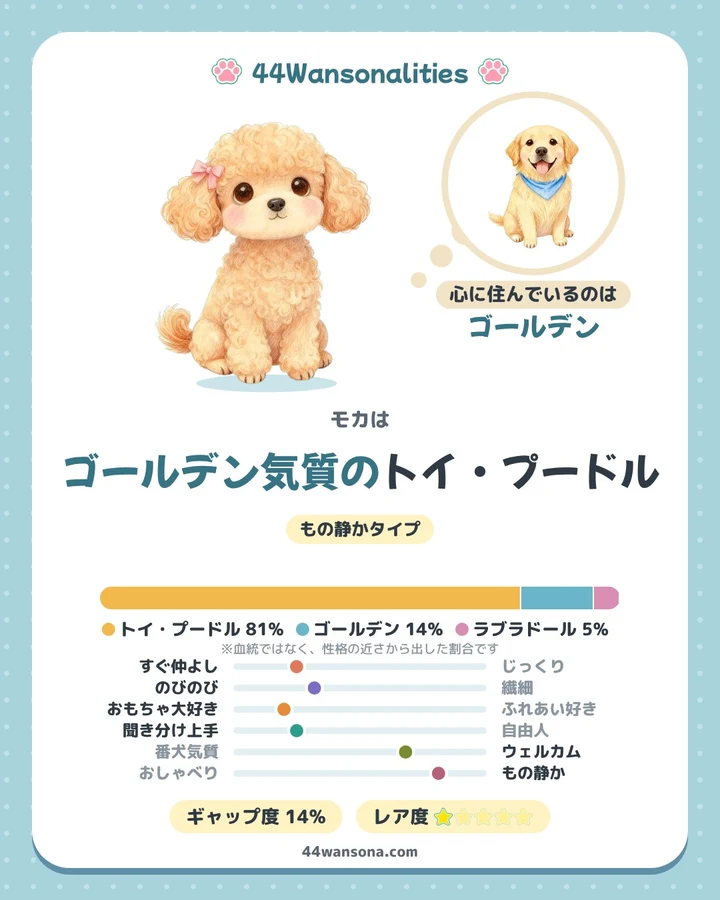
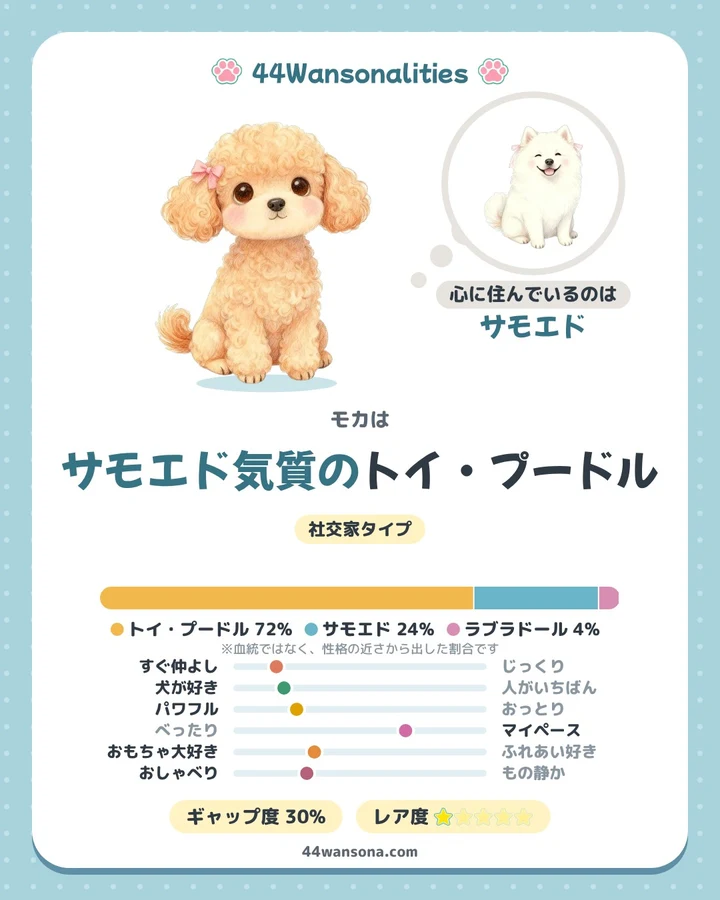
LPの例を「サモエド気質のトイ・プードル」に（犬種名が略されない犬に）。シェア画像も作り直し
Claude-Session: https://claude.ai/code/session_01VNhb2mPii8GMuwudjdkqsa

diff --git a/dog-shindan/lp.html b/dog-shindan/lp.html
@@ -151,7 +151,7 @@ img{max-width:100%}
   <div class="steps" aria-hidden="true"><img src="icon/paw.png" alt=""><img src="icon/paw.png" alt=""><img src="icon/paw.png" alt=""><img src="icon/paw.png" alt=""><img src="icon/paw.png" alt=""><img src="icon/paw.png" alt=""><img src="icon/paw.png" alt=""></div>
   <div class="bubble"><h1><ruby>44<em>Wansonalities</em><rt>よんよん ワンソナ</rt></ruby></h1><small>うちの子は、何気質？</small></div>
   <div class="fan" aria-label="結果カードの例">
-    <img src="lp/card-toypoodle.webp" alt="モカはゴールデン気質のトイ・プードル、の結果カード"><img src="lp/card-pug.webp" alt="こむぎは柴犬気質のパグ、の結果カード">
+    <img src="lp/card-toypoodle.webp" alt="モカはサモエド気質のトイ・プードル、の結果カード"><img src="lp/card-pug.webp" alt="こむぎは柴犬気質のパグ、の結果カード">
   </div>
   <p class="hero-q"><span class="nw">うちの子の心に</span><span class="nw">住んでいるのは、</span><span class="nw"><em>どの犬種？</em></span></p>
 </header>
